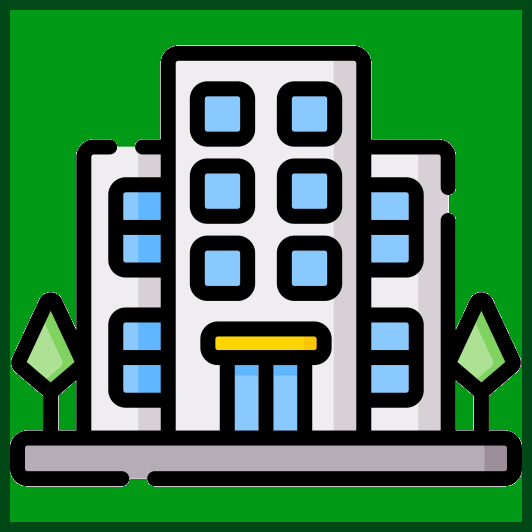
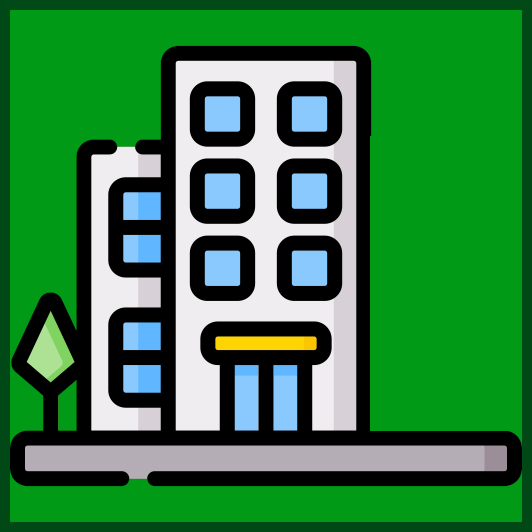
3 különböző grafika telítettségtől függően kiegészítve munkahelyre is

Changed region(s): [[0.6917, 0.2406, 0.9925, 0.812], [0.1203, 0.782, 0.1504, 0.812], [0.1203, 0.5714, 0.1504, 0.6015]]

diff --git a/src/main/java/UrbanTycoon/City.java b/src/main/java/UrbanTycoon/City.java
@@ -531,8 +531,8 @@ class City {
                     if (!fields[i][j].isFree() && fields[i][j].getBuilding() instanceof Zone zone) {
                         zone.setAnnualTax(tax);
                     }
-                    if (!fields[i][j].isFree() && fields[i][j].getBuilding().isBuiltUp() && fields[i][j].getBuilding() instanceof ResidentialZone residentialZone) {
-                        residentialZone.setImage(new ImageIcon("data/graphics/field/default/" + residentialZone.type() + ".png").getImage()); 
+                    if (!fields[i][j].isFree() && fields[i][j].getBuilding().isBuiltUp() && fields[i][j].getBuilding() instanceof Zone zone) {
+                        zone.setImage(new ImageIcon("data/graphics/field/default/" + zone.type() + ".png").getImage()); 
                     }
                 }
             if (selectedField != null && !selectedField.isFree() && selectedField.getBuilding() instanceof Zone zone && zone.isBuiltUp()) {

diff --git a/src/main/java/UrbanTycoon/IndustrialZone.java b/src/main/java/UrbanTycoon/IndustrialZone.java
@@ -17,6 +17,8 @@ public class IndustrialZone extends Workplace{
     }
 
     protected String type(){
+        if (peopleNum == 0)         return "industrialZoneEmpty";
+        if (peopleNum == capacity)  return "industrialZoneFull";
         return "industrialZone";
     }
 }

diff --git a/src/main/java/UrbanTycoon/ServiceZone.java b/src/main/java/UrbanTycoon/ServiceZone.java
@@ -17,6 +17,8 @@ public class ServiceZone extends Workplace{
     }
     
     protected String type(){
+        if (peopleNum == 0)         return "serviceZoneEmpty";
+        if (peopleNum == capacity)  return "serviceZoneFull";
         return "serviceZone";
     }
 }
